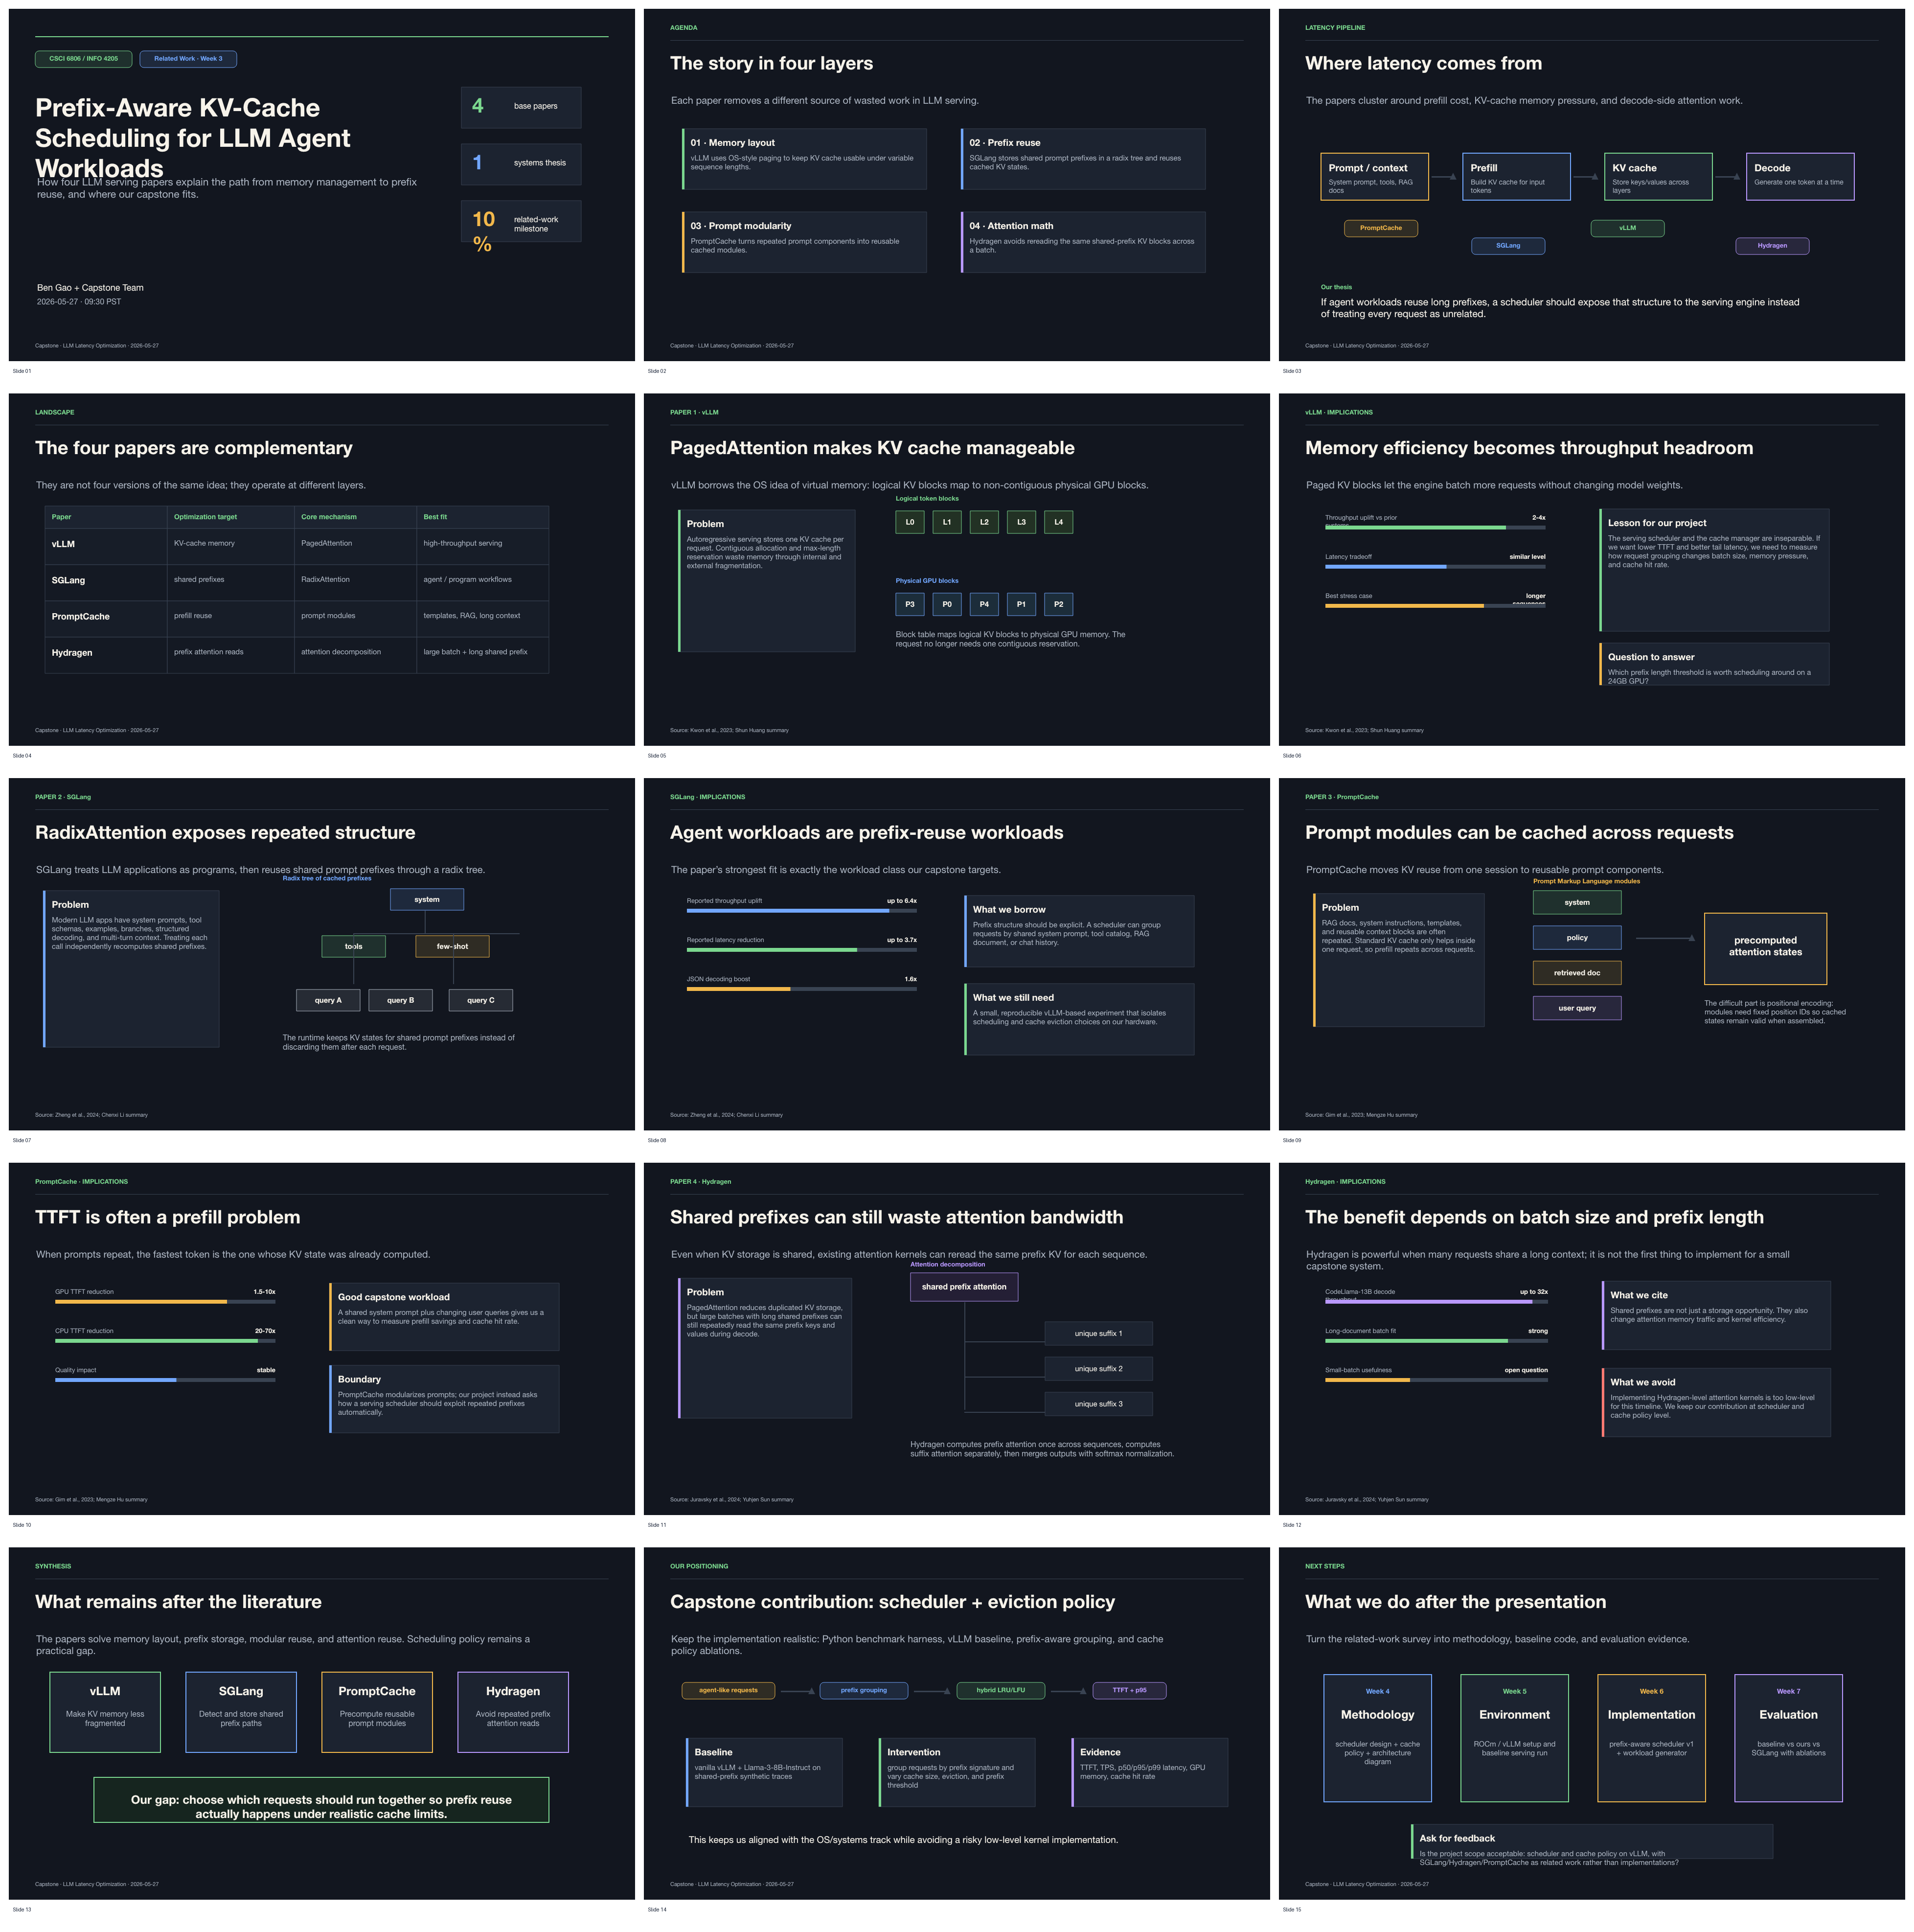
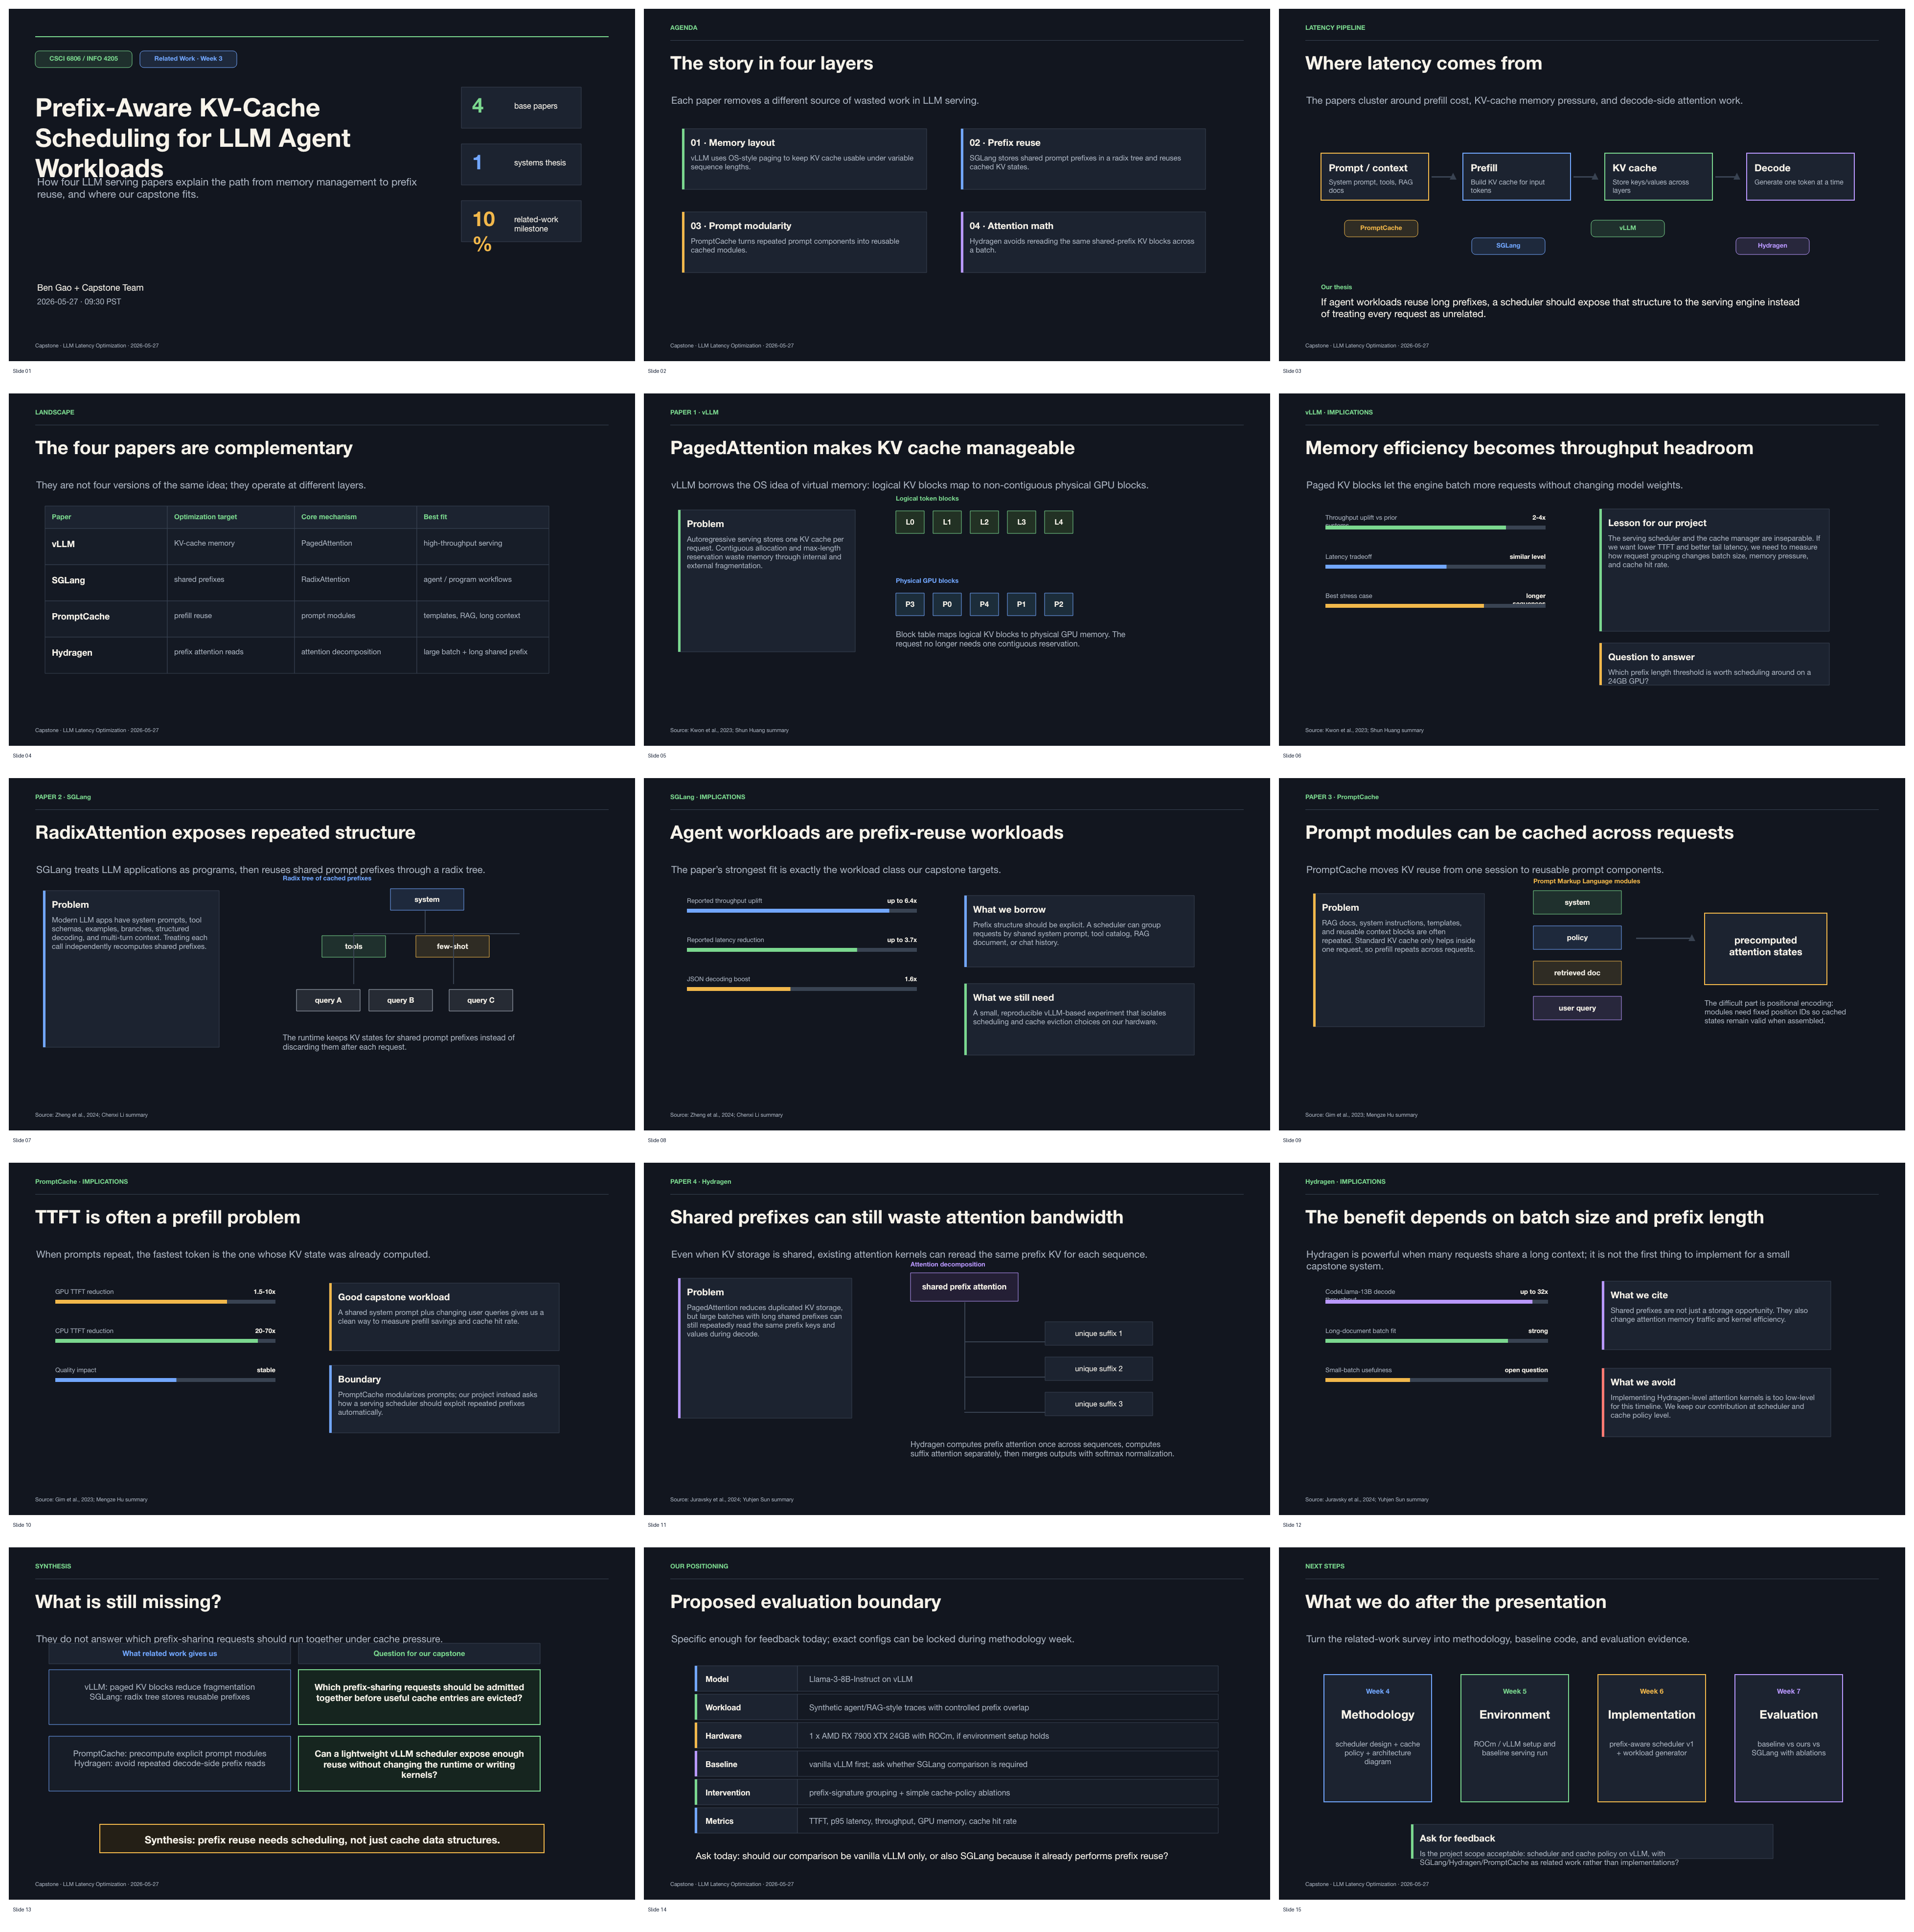
Revise related work presentation after review
Convert script to speaker notes, add dry-run Q&A, and revise slides 13-14 with stronger synthesis and evaluation details.

diff --git a/docs/presentation/related-work-2026-05-27-script.md b/docs/presentation/related-work-2026-05-27-script.md
@@ -1,109 +1,138 @@
-# Related Work Presentation Script — Short Version
+# Related Work Presentation Speaker Notes
 
-This is a **practice script**, not text to read word-for-word. Rewrite your part in your own English before class.
+This is not a word-for-word script. Each speaker should turn their section into
+4-5 personal bullets and practice without reading this file.
 
-Target total: **10-12 minutes**.
+Target total: 10-12 minutes.
 
-## Ben — Opening, Slides 1-4, about 2:00
+## Ben - Opening, Slides 1-4, about 2:00
 
-**Slide 1**
+Use your own words, but keep this spine:
 
-Good morning. Our capstone topic is prefix-aware KV-cache scheduling for LLM agent workloads. The general problem is LLM serving latency. In agent and RAG systems, many requests share long repeated prefixes, such as system prompts, tool descriptions, or retrieved documents. Our project asks whether the serving system can use that repeated structure to reduce time-to-first-token and tail latency.
+- We are working on LLM serving latency optimization.
+- More specifically, the direction is prefix-aware KV-cache scheduling: when many requests share the same system prompt, tool schema, retrieved document, or other long prefix, can the serving system reuse work and respond faster?
+- The four papers cover different layers of that problem:
+  - vLLM: KV-cache memory layout.
+  - SGLang: prefix reuse with RadixAttention.
+  - PromptCache: reusable prompt modules and prefill savings.
+  - Hydragen: shared-prefix attention work during decode.
+- The point of the related-work section is not that one paper solves our project. The point is that the papers divide the latency problem into memory layout, prefix storage, prefill reuse, and attention compute.
 
-**Slide 2**
+Handoff:
 
-We organized the related work into four layers. vLLM focuses on KV-cache memory layout. SGLang focuses on shared prefix reuse. PromptCache focuses on reusable prompt modules and prefill savings. Hydragen focuses on shared-prefix attention work during decoding.
+- Shun, please start with vLLM and PagedAttention.
 
-**Slide 3**
+## Shun Huang - vLLM / PagedAttention, Slides 5-6, about 1:30
 
-This pipeline shows where the papers fit. PromptCache mainly reduces prefill work. vLLM manages the KV cache. SGLang stores and reuses shared prefixes. Hydragen reduces repeated attention work during decode.
+Goal: explain vLLM as the memory-management paper.
 
-**Slide 4**
+Suggested bullets:
 
-The main point is that these papers are complementary. They do not all solve the same problem. Together, they show that latency is affected by memory layout, cache reuse, prompt structure, and attention computation.
+- The problem vLLM cares about is GPU memory waste from KV cache. Each request has a different sequence length, so a large contiguous allocation wastes space.
+- PagedAttention borrows the paging idea from operating systems. KV cache is split into blocks, and the runtime maps logical blocks to physical GPU blocks.
+- In the paper's evaluated settings, vLLM reports about 2-4x higher throughput than earlier serving systems while keeping latency similar.
+- For us, the takeaway is that cache layout changes batching capacity, memory pressure, and latency.
+- What vLLM does not solve for us: it does not decide which prefix-sharing requests should be admitted together before the cache is evicted.
 
-Shun, over to you for vLLM and PagedAttention.
+Be ready for:
 
-## Shun Huang — vLLM / PagedAttention, Slides 5-6, about 1:30
+- If vLLM already manages KV cache, why add a scheduler?
+- Short answer: PagedAttention reduces fragmentation, but it does not choose admission order for prefix-sharing requests under cache pressure.
 
-**Slide 5**
+Handoff:
 
-vLLM solves a memory management problem in LLM serving. During generation, every request stores a KV cache. If the system allocates one large contiguous memory area for each request, it wastes GPU memory because sequence lengths are different and unpredictable.
+- Chenxi, please take us to SGLang and RadixAttention.
 
-PagedAttention fixes this using an idea similar to operating-system paging. It divides KV cache into fixed-size logical blocks and maps them to physical GPU blocks. This reduces fragmentation and allows the server to batch more requests.
+## Chenxi Li - SGLang / RadixAttention, Slides 7-8, about 1:30
 
-**Slide 6**
+Goal: explain SGLang as the closest prefix-reuse related work.
 
-In the paper's evaluated settings, vLLM reports about 2 to 4 times higher throughput compared with earlier systems, while keeping latency at a similar level. For our project, the lesson is that cache layout affects batching, GPU memory pressure, and latency. Its limitation for us is that it does not decide which prefix-similar requests should be served together.
+Suggested bullets:
 
-Chenxi, please take us to SGLang, which is closer to prefix reuse.
+- SGLang treats many LLM applications as programs, not one-off prompts. Agent and tool workflows often repeat the same prefix.
+- RadixAttention stores prefixes and their KV cache in a radix tree. A new request can reuse cached prefix states when it overlaps with earlier requests.
+- In the paper's evaluated workloads, SGLang reports up to 6.4x throughput and 3.7x latency improvement.
+- For us, the takeaway is that prefix structure is a real serving-system signal, not just an application-level detail.
+- The difference from our project: SGLang is a separate runtime and programming model. Our proposed experiment asks what a smaller scheduler/cache-policy layer can do around vLLM.
 
-## Chenxi Li — SGLang / RadixAttention, Slides 7-8, about 1:30
+Be ready for:
 
-**Slide 7**
+- Why not just use SGLang?
+- Short answer: SGLang is the strongest related system, so it should be cited. Our capstone is smaller: test whether vLLM scheduling and cache policy can recover part of the prefix-reuse benefit without adopting a new runtime.
 
-SGLang starts from the idea that many LLM applications are programs, not single prompts. They include system prompts, tool schemas, few-shot examples, branches, and structured outputs. These workloads often repeat the same prefixes.
+Handoff:
 
-The main runtime idea is RadixAttention. It stores previous prompt prefixes and their KV cache in a radix tree. When a new request shares a prefix with an old request, the runtime can reuse the cached KV states instead of recomputing them.
+- Mengze, please cover PromptCache and prefill reuse.
 
-**Slide 8**
+## Mengze Hu - PromptCache, Slides 9-10, about 1:30
 
-In the paper's evaluated workloads, SGLang reports up to 6.4 times higher throughput and 3.7 times lower latency. This matters for our project because agent workloads naturally share prefixes. SGLang shows that exposing prefix structure can improve serving performance. Its limitation for us is that it is a separate runtime and programming model, while our base system is vLLM.
+Goal: explain PromptCache as the prefill-reuse paper.
 
-Mengze, please explain PromptCache, which focuses more directly on prefill reuse.
+Suggested bullets:
 
-## Mengze Hu — PromptCache, Slides 9-10, about 1:30
+- PromptCache focuses on repeated prompt components: system prompts, templates, retrieved documents, or long context blocks that appear again and again.
+- Developers mark reusable modules with Prompt Markup Language, or PML.
+- The system precomputes attention states for those modules and reuses them during inference, which mainly reduces prefill cost.
+- In the paper's evaluated settings, PromptCache reports 1.5-10x lower GPU time-to-first-token, with larger CPU reductions.
+- For us, the takeaway is that prefill dominates TTFT for long shared prompts. The difference is that PromptCache depends on explicit modules, while our scheduler should look for reuse from request structure.
 
-**Slide 9**
+Be ready for:
 
-PromptCache focuses on repeated prompt components. In real applications, prompts often reuse system instructions, templates, retrieved documents, or context blocks. Standard KV cache helps within one request, but after the request ends, the same text may be recomputed again in the next request.
+- What does PML stand for?
+- Does precomputed KV always remain exact when surrounding context changes?
+- Short answer: not automatically. PromptCache uses explicit modules and position handling. We should mention this as a tradeoff and avoid claiming that precomputed KV is universally reusable.
 
-PromptCache introduces Prompt Markup Language, or PML. Developers define reusable prompt modules. The system precomputes attention states for those modules and reuses them during inference. This reduces repeated prefill work.
+Handoff:
 
-**Slide 10**
+- Yuhjen, please cover Hydragen and shared-prefix attention compute.
 
-In the paper's evaluated settings, PromptCache reports 1.5 to 10 times lower GPU time-to-first-token, and even larger reductions on CPU. This matters for our project because TTFT is often dominated by prefill for long shared prompts. Its limitation for us is that PromptCache requires explicit prompt modules, while our scheduler should try to exploit shared prefixes more automatically.
+## Yuhjen Sun - Hydragen, Slides 11-12, about 1:30
 
-Yuhjen, please cover Hydragen, which looks at another cost of shared prefixes.
+Goal: explain Hydragen as the decode-side shared-prefix attention paper.
 
-## Yuhjen Sun — Hydragen, Slides 11-12, about 1:30
+Suggested bullets:
 
-**Slide 11**
+- Hydragen points out that shared prefixes are not only a storage issue. The attention kernel can still repeatedly read the same shared prefix keys and values across a batch.
+- The paper separates attention over the shared prefix from attention over each request's unique suffix, then batches the shared-prefix work.
+- In the paper's evaluated settings with large batches and long shared prefixes, Hydragen reports very large decode-throughput improvements, including up to 32x in one setup.
+- For us, the takeaway is that shared-prefix cost exists in attention compute and memory bandwidth too.
+- The difference from our project: Hydragen is kernel-level and decode-side. Our capstone should cite it as complementary related work, not try to implement it.
 
-Hydragen points out that shared prefixes can still be expensive. Systems like vLLM can reduce duplicated KV storage, but the attention kernel may still read the same shared prefix keys and values many times across a batch.
+Be ready for:
 
-Hydragen decomposes attention into two parts: attention over the shared prefix, and attention over each request's unique suffix. It batches the shared-prefix attention across requests, then merges the outputs with the suffix attention.
+- Why cite Hydragen if our scope is scheduling?
+- Short answer: it shows prefix sharing matters beyond KV storage. It is orthogonal to our scheduler layer and could be stacked with it later.
 
-**Slide 12**
+Handoff:
 
-In the paper's evaluated settings with large batches and long shared prefixes, Hydragen reports very large improvements, including up to 32 times decode throughput in one setup. This matters because shared prefixes affect not only storage, but also memory bandwidth and attention computation. Its limitation for us is that the kernel-level implementation is outside our current capstone scope.
+- Ben, please close with the synthesis and proposed evaluation.
 
-I will close by connecting the four papers to our project scope.
+## Ben - Synthesis and Scope, Slides 13-15, about 2:00
 
-## Ben — Synthesis and Scope, Slides 13-15, about 2:00
+Use your own words, but make these points clear:
 
-**Slide 13**
+- The synthesis is that each paper handles a different part of the serving stack.
+- What is missing for our capstone question is an operational policy: when cache capacity is limited, which prefix-sharing requests should run together so reuse actually happens?
+- Proposed evaluation:
+  - Model: Llama-3-8B-Instruct.
+  - Workload: synthetic agent/RAG-style traces with repeated prefixes.
+  - Hardware: one AMD RX 7900 XTX, if the environment works as planned.
+  - Baseline: vanilla vLLM first; SGLang comparison is a question for the professor.
+  - Metrics: TTFT, p95 latency, throughput, GPU memory, and cache hit rate.
+- Specific ask for the professor: should the baseline be only vanilla vLLM, or should we also compare against SGLang because it already has prefix reuse?
 
-Here is the synthesis. vLLM makes KV memory less fragmented. SGLang detects and stores shared prefix paths. PromptCache precomputes reusable prompt modules. Hydragen avoids repeated attention reads for shared prefixes.
+Closing line:
 
-A practical angle for our capstone is scheduling. Under cache limits, requests that share prefixes may need to be grouped deliberately so reuse actually matters.
+- That baseline question is the main feedback we want before we lock the methodology.
 
-**Slide 14**
+## Emergency 6-7 Minute Version
 
-Our proposed scope is therefore not to reimplement all four papers. It is smaller and more realistic. We will build a vLLM benchmark, add prefix grouping plus a simple cache policy, and measure TTFT, p95 latency, throughput, GPU memory, and cache hit rate.
+- Ben: slide 1 and slide 4 only, 1:00.
+- Shun: slide 5 only, 0:45.
+- Chenxi: slide 7 only, 0:45.
+- Mengze: slide 9 only, 0:45.
+- Yuhjen: slide 11 only, 0:45.
+- Ben: slide 14 only, 1:00.
 
-**Slide 15**
-
-After this related-work milestone, our next steps are methodology, environment setup, implementation, and evaluation. The key feedback we want is whether our related-work positioning and evaluation direction are reasonable: using vLLM as the base system, with SGLang, PromptCache, and Hydragen as related work, and focusing our implementation on prefix-aware scheduling and cache policy.
-
-Thank you. We are happy to take questions.
-
-## If You Need To Cut Your Section
-
-If you are running out of time, say only these three sentences:
-
-- "The problem is..."
-- "The key idea is..."
-- "This matters for our project because..."
-
-Do not explain every detail of the paper.
+In the emergency version, skip speedup numbers and focus on one takeaway per
+paper.

diff --git a/docs/presentation/related-work-2026-05-27-guide.md b/docs/presentation/related-work-2026-05-27-guide.md
@@ -6,7 +6,7 @@ Use the PPTX here:
 
 - `report/slides/related-work-2026-05-27.pptx`
 
-Use the practice script here:
+Use the speaker notes here:
 
 - `docs/presentation/related-work-2026-05-27-script.md`
 
@@ -40,7 +40,7 @@ Do **not** make each person speak for 5 minutes. The paper speakers should each 
 
 ## Review Status
 
-Locally reviewed for timing, academic framing, clarity, and teammate readiness.
+Locally reviewed for timing, academic framing, clarity, teammate readiness, and AI-text risk.
 
 Main risks found:
 
@@ -54,14 +54,25 @@ Changes applied:
 
 - The deck is structured as a short 15-slide related-work narrative.
 - Each paper has exactly two slides: mechanism + implication.
-- The script below is short and has clear stop points.
+- The script has been changed into speaker notes, not a word-for-word script.
+- Slide 13 now states the missing systems question more directly.
+- Slide 14 now names the likely model, workload, hardware, baseline, and metrics.
 - The final project-positioning section is kept to two minutes.
+
+## Hard Block Before Class
+
+Do this before the 2026-05-27 09:30 PST presentation:
+
+1. Each paper speaker closes the script and explains their paper once in their own words.
+2. Each paper speaker should keep only 4-5 bullets on their own note card.
+3. Mengze must be able to answer: "What does PML stand for?" and "Why can precomputed KV have limitations when context changes?"
+4. Ben should run the four likely professor questions below once with the team.
 
 ## What Each Teammate Should Do
 
 ### Everyone
 
-1. Open the PPTX, read your assigned slides, then open the practice script and rehearse only your assigned section.
+1. Open the PPTX, read your assigned slides, then open the speaker notes and rehearse only your assigned section.
 2. Rewrite your part in your own words.
 3. Practice with a timer. Paper speakers stop at 90 seconds. Ben stops at 2 minutes for the opening and 2 minutes for the closing.
 4. Do not add long paper background unless Ben asks.
@@ -79,37 +90,46 @@ Changes applied:
 - Own slides 5-6.
 - Explain vLLM as memory management for KV cache.
 - Do not spend time explaining transformer attention math.
-- End with: vLLM teaches us that cache layout affects batching and latency.
+- End with: vLLM fixes fragmentation, but it does not decide which prefix-sharing requests should be admitted together.
 
 ### Chenxi Li
 
 - Own slides 7-8.
 - Explain SGLang as prefix reuse for LLM programs and agent workflows.
 - The key term is **RadixAttention**.
-- End with: SGLang is the closest related work for our prefix-aware scheduler idea.
+- End with: SGLang is the closest related work, but we need to explain why our vLLM-based scheduler experiment is still different.
 
 ### Mengze Hu
 
 - Own slides 9-10.
 - Explain PromptCache as reusable prompt modules and precomputed attention states.
 - The key metric is TTFT reduction.
-- End with: PromptCache motivates our focus on prefill savings, but our scheduler should discover reuse automatically.
+- End with: PromptCache motivates prefill savings, but explicit PML modules are a different assumption from automatic request grouping.
 
 ### Yuhjen Sun
 
 - Own slides 11-12.
 - Explain Hydragen as avoiding repeated reads of shared prefix attention.
 - Keep the "32x" result as one quick evidence point, not the whole talk.
-- End with: Hydragen is important related work, but its kernel-level implementation is outside our current capstone scope.
+- End with: Hydragen is related because shared prefixes affect attention compute, but its decode-side kernel work is orthogonal to our scheduler scope.
+
+## Likely Professor Questions
+
+| Paper | Likely question | Short answer |
+|---|---|---|
+| vLLM | If vLLM already manages KV cache, why add a scheduler? | PagedAttention reduces fragmentation, but it does not choose admission order for prefix-sharing requests under cache pressure. |
+| SGLang | Why not just use SGLang? | SGLang is the closest runtime-level prefix reuse system; our smaller experiment asks whether vLLM scheduling/cache policy can capture part of that benefit without moving to a separate programming model. |
+| PromptCache | Does precomputed KV always remain exact when surrounding context changes? | Not automatically. PromptCache uses explicit prompt modules and position handling; our project avoids relying on developer-marked modules. |
+| Hydragen | Why cite Hydragen if you are not doing kernels? | Hydragen shows shared-prefix cost is also attention compute, not only storage. It is complementary to scheduling, not our implementation target. |
 
 ## Rehearsal Rules
 
-- Say "this matters for our project because..." once in every paper section.
+- Give one project takeaway in every paper section.
 - Use the slides as visual support; do not read every bullet.
 - If stuck, use this fallback structure:
   1. "The problem is..."
   2. "The key idea is..."
-  3. "This matters for our project because..."
+  3. "For our project, the takeaway is..."
 - Speak slower than normal. 90 seconds is enough.
 - Camera on, professional background, join Zoom 5 minutes early.
 
@@ -121,6 +141,6 @@ If the professor gives us less time:
 - Each paper speaker: explain the problem/key idea from the first slide, then say one project lesson from the second slide.
 - Ben: finish with slide 14 only.
 
-Cut version target: Ben intro 1:00, each paper speaker 45 seconds, Ben close 1:00.
+Cut version target: Ben intro 1:00, each paper speaker 45 seconds, Ben close 1:00. Drop all paper speedup numbers if time is tight.
 
 That gives a 6-7 minute version.

diff --git a/README.md b/README.md
@@ -13,7 +13,7 @@ FDU MSACS Capstone project repo (CSCI 6806 / INFO 4205, Summer 2026).
 
 ➤ **Start here if you're a teammate**: [`docs/roadmap-v0.1.md`](docs/roadmap-v0.1.md).
 ➤ **Base paper PDFs**: [`docs/papers/`](docs/papers/).
-➤ **2026-05-27 related-work presentation**: start with the [`speaker guide`](docs/presentation/related-work-2026-05-27-guide.md), then use the [`PPTX`](report/slides/related-work-2026-05-27.pptx) and [`practice script`](docs/presentation/related-work-2026-05-27-script.md). Paper owners should stay near 90 seconds.
+➤ **2026-05-27 related-work presentation**: start with the [`speaker guide`](docs/presentation/related-work-2026-05-27-guide.md), then use the [`PPTX`](report/slides/related-work-2026-05-27.pptx) and [`speaker notes`](docs/presentation/related-work-2026-05-27-script.md). Paper owners should stay near 90 seconds.
 
 ## Repo layout
 